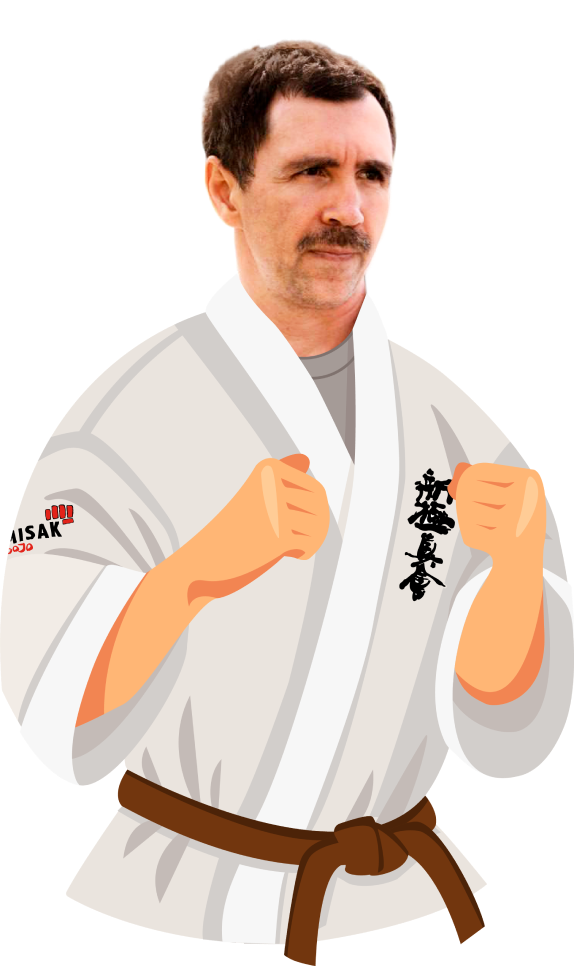
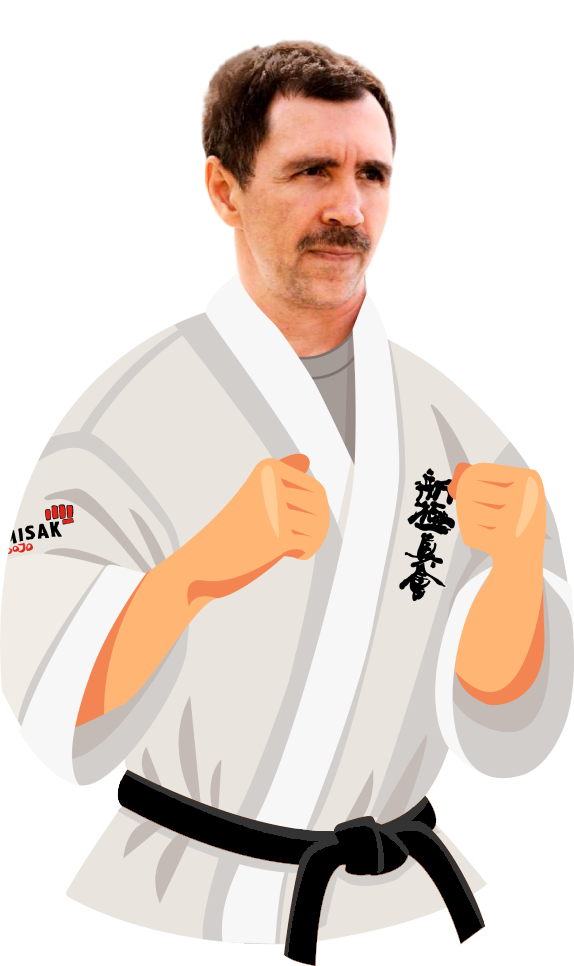
changes trainers dan

Changed region(s): [[0.2073, 0.7764, 0.8589, 1.0]]

diff --git a/src/sections/GymsSection/GymsSection.tsx b/src/sections/GymsSection/GymsSection.tsx
@@ -196,29 +196,11 @@ const GymsSection = () => {
                             {!isBlockVisible2 ? t("scheduleSee") : t("scheduleHide")}
                         </CustomButton>
                     </div>
-                    <div className={cn(s.gymContent, {[s.showContent]: isBlockVisible2})}>
+                    <div className={cn(s.gymContent, {[s.showContent]: isBlockVisible2},  s.firstGym)}>
                         <div className={cn(s.item2times, s.order1)}>
                             {language === "uk" && <Image className={s.dayIcon} src={mondayUA} alt="понеділок"/>}
                             {language === "ru" && <Image className={s.dayIcon} src={mondayRU} alt="понедельник"/>}
                             {language === "en" && <Image className={s.dayIcon} src={mondayEN} alt="monday"/>}
-                            <div>
-                                <ul className={s.list}>
-                                    <li className={s.timeText}>18:00 - 19:00</li>
-                                </ul>
-                                <p className={s.text}>{t("group6")}</p>
-                            </div>
-                            <div>
-                                <ul className={s.list}>
-                                    <li className={s.timeText}>19:00 - 20:00</li>
-                                </ul>
-                                <p className={s.text}>{t("group7")}</p>
-                            </div>
-                        </div>
-
-                        <div className={cn(s.item2times, s.order3)}>
-                            {language === "uk" && <Image className={s.dayIcon} src={wednesdayUA} alt="середа"/>}
-                            {language === "ru" && <Image className={s.dayIcon} src={wednesdayRU} alt="среда"/>}
-                            {language === "en" && <Image className={s.dayIcon} src={wednesdayEN} alt="wednesday"/>}
                             <div>
                                 <ul className={s.list}>
                                     <li className={s.timeText}>18:00 - 19:00</li>
@@ -252,11 +234,10 @@ const GymsSection = () => {
                             </div>
                         </div>
 
-                        <div className={cn(s.item2times, s.order2)}>
-                            {language === "uk" && <Image className={s.dayIcon} src={tuesdayUA} alt="вівторок"/>}
-                            {language === "ru" && <Image className={s.dayIcon} src={tuesdayRU} alt="вторник"/>}
-                            {language === "en" && <Image className={s.dayIcon} src={tuesdayEN} alt="tuesday"/>}
-                            <Image className={s.eyesIcon} src={eyes} alt="eyes"/>
+                        <div className={cn(s.item2times, s.order3)}>
+                            {language === "uk" && <Image className={s.dayIcon} src={wednesdayUA} alt="середа"/>}
+                            {language === "ru" && <Image className={s.dayIcon} src={wednesdayRU} alt="среда"/>}
+                            {language === "en" && <Image className={s.dayIcon} src={wednesdayEN} alt="wednesday"/>}
                             <div>
                                 <ul className={s.list}>
                                     <li className={s.timeText}>18:00 - 19:00</li>
@@ -271,23 +252,44 @@ const GymsSection = () => {
                             </div>
                         </div>
 
-                        <div className={cn(s.item2times, s.order4)}>
-                            {language === "uk" && <Image className={s.dayIcon} src={thursdayUA} alt="четверг"/>}
-                            {language === "ru" && <Image className={s.dayIcon} src={thursdayRU} alt="четверг"/>}
-                            {language === "en" && <Image className={s.dayIcon} src={thursdayEN} alt="thursday"/>}
-                            <div>
-                                <ul className={s.list}>
-                                    <li className={s.timeText}>18:00 - 19:00</li>
-                                </ul>
-                                <p className={s.text}>{t("group6")}</p>
-                            </div>
-                            <div>
-                                <ul className={s.list}>
-                                    <li className={s.timeText}>19:00 - 20:00</li>
-                                </ul>
-                                <p className={s.text}>{t("group7")}</p>
-                            </div>
-                        </div>
+
+
+                        {/*<div className={cn(s.item2times, s.order2)}>*/}
+                        {/*    {language === "uk" && <Image className={s.dayIcon} src={tuesdayUA} alt="вівторок"/>}*/}
+                        {/*    {language === "ru" && <Image className={s.dayIcon} src={tuesdayRU} alt="вторник"/>}*/}
+                        {/*    {language === "en" && <Image className={s.dayIcon} src={tuesdayEN} alt="tuesday"/>}*/}
+                        {/*    <Image className={s.eyesIcon} src={eyes} alt="eyes"/>*/}
+                        {/*    <div>*/}
+                        {/*        <ul className={s.list}>*/}
+                        {/*            <li className={s.timeText}>18:00 - 19:00</li>*/}
+                        {/*        </ul>*/}
+                        {/*        <p className={s.text}>{t("group6")}</p>*/}
+                        {/*    </div>*/}
+                        {/*    <div>*/}
+                        {/*        <ul className={s.list}>*/}
+                        {/*            <li className={s.timeText}>19:00 - 20:00</li>*/}
+                        {/*        </ul>*/}
+                        {/*        <p className={s.text}>{t("group7")}</p>*/}
+                        {/*    </div>*/}
+                        {/*</div>*/}
+
+                        {/*<div className={cn(s.item2times, s.order4)}>*/}
+                        {/*    {language === "uk" && <Image className={s.dayIcon} src={thursdayUA} alt="четверг"/>}*/}
+                        {/*    {language === "ru" && <Image className={s.dayIcon} src={thursdayRU} alt="четверг"/>}*/}
+                        {/*    {language === "en" && <Image className={s.dayIcon} src={thursdayEN} alt="thursday"/>}*/}
+                        {/*    <div>*/}
+                        {/*        <ul className={s.list}>*/}
+                        {/*            <li className={s.timeText}>18:00 - 19:00</li>*/}
+                        {/*        </ul>*/}
+                        {/*        <p className={s.text}>{t("group6")}</p>*/}
+                        {/*    </div>*/}
+                        {/*    <div>*/}
+                        {/*        <ul className={s.list}>*/}
+                        {/*            <li className={s.timeText}>19:00 - 20:00</li>*/}
+                        {/*        </ul>*/}
+                        {/*        <p className={s.text}>{t("group7")}</p>*/}
+                        {/*    </div>*/}
+                        {/*</div>*/}
                     </div>
                     <Image className={s.numIcon} src={num2} alt="number"/>
                     <div className={s.line}></div>
